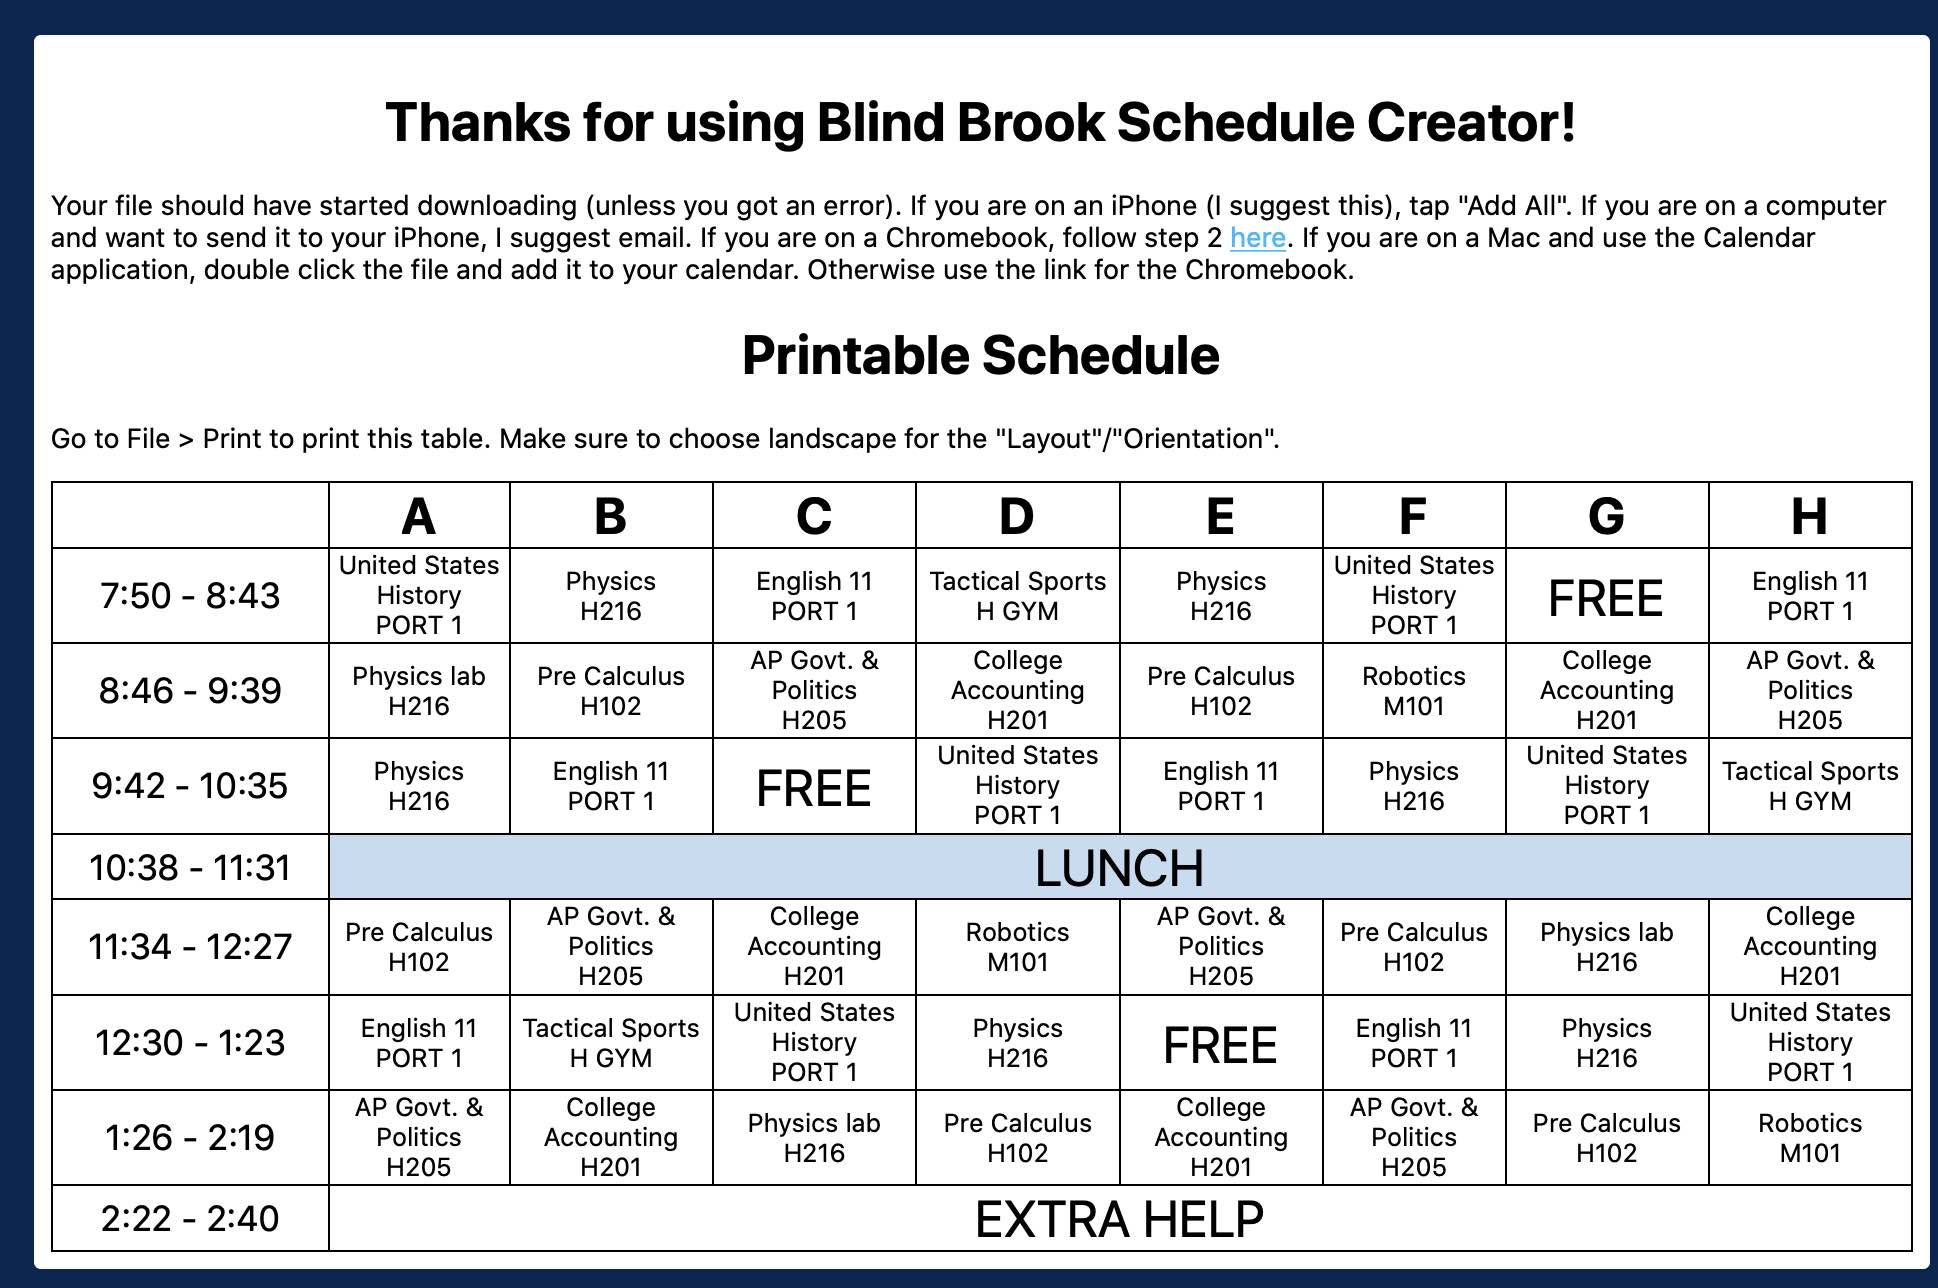
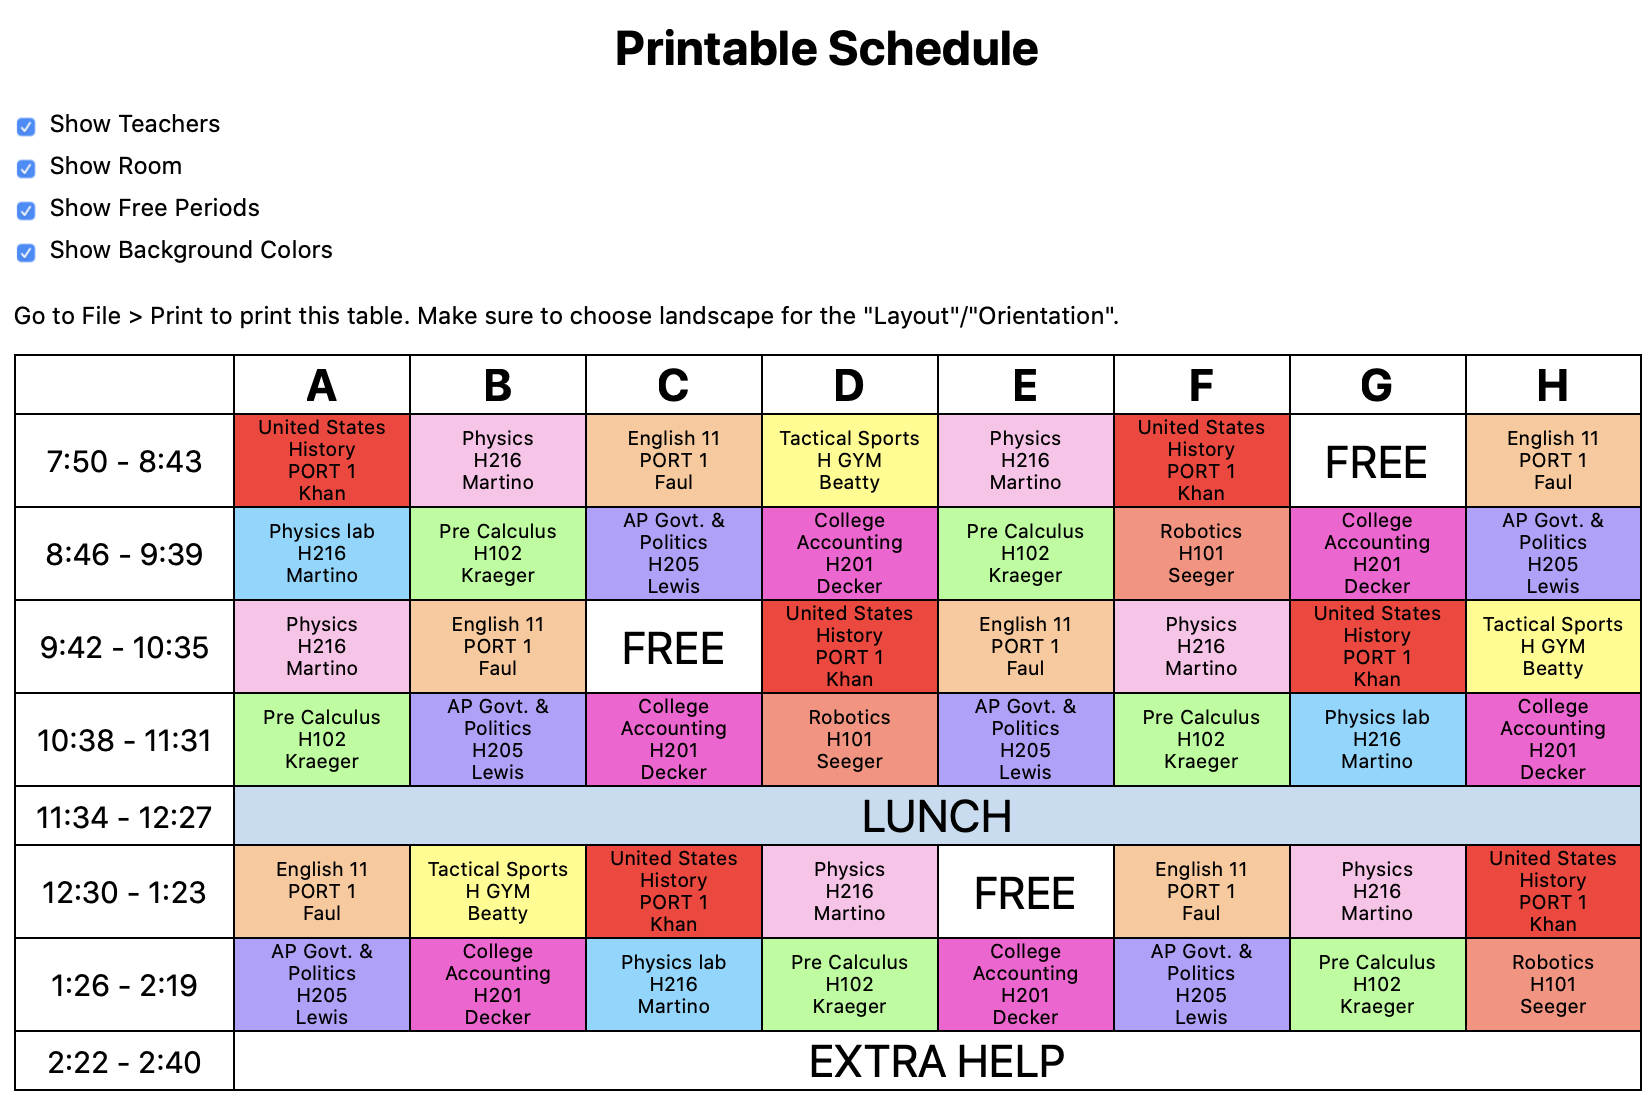
Added border to modal images. Updated schedule image to reflect colors and toggle options. Better fade in.

diff --git a/public/css/modal.css b/public/css/modal.css
@@ -77,4 +77,5 @@
     bottom: 0;
     right: 0;
     margin: auto;
+    border: #cccccc solid 1px;
 }
